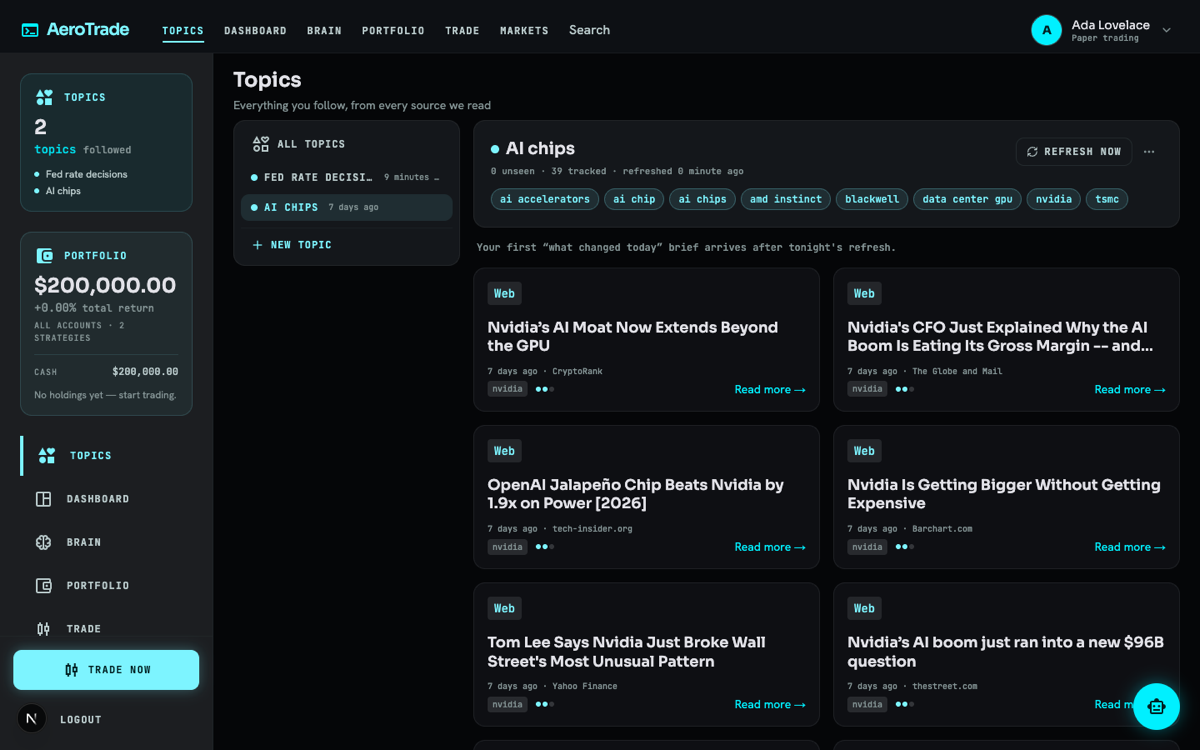
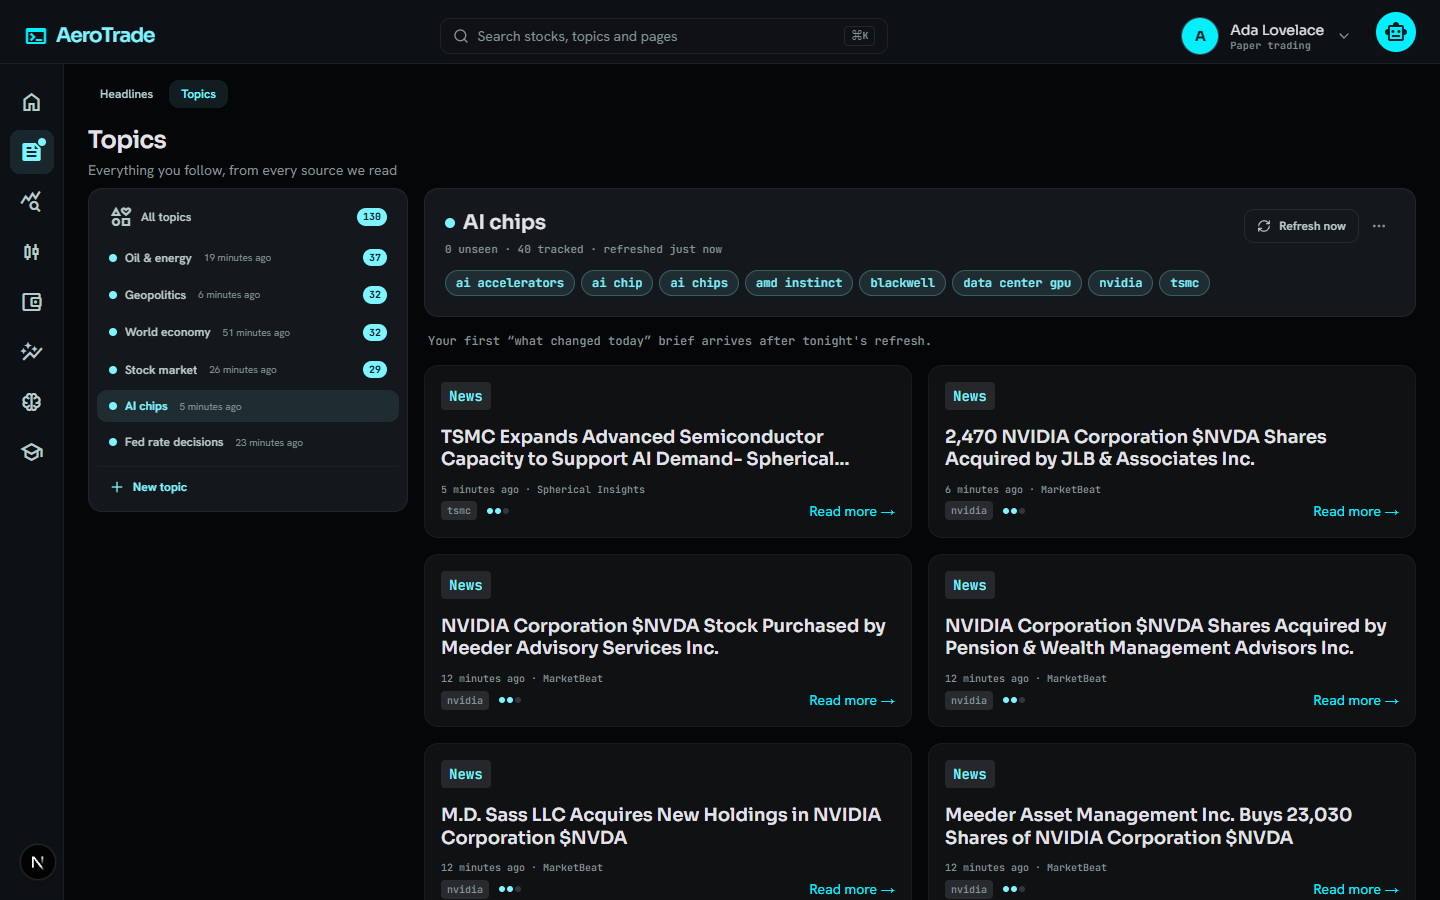
chore(polish): a title per page, a settings nav that sticks, and docs for the revamp
Every browser tab read "AeroTrade Terminal". Each page now names itself and
the root layout appends the app ("Portfolio · AeroTrade"); a strategy page
takes the strategy's name from the catalog, a lesson its own title, a stock
page its symbol. The landing page keeps its full title as an absolute one.

The settings side nav sat 96px below the panel beside it: `lg:sticky
lg:top-24` was written on the Panel, .glass-panel sets position itself, so
the `sticky` lost and the `top` pushed a relatively positioned nav down the
page. A wrapper carries the sticky now, and it sticks.

Docs: docs/specs/2026-10-02-ux-revamp.md records what was decided, what
shipped and what was deliberately left out; the README's counts, route list
and feature tour are current, and its screenshots are recaptured from the new
UI (screenshots.mjs writes them at the size the README shows, so the macOS
`sips` step is gone).

Verified: npm run check (1817 tests), build:check, npm run qa (756 PASS).

diff --git a/app/(root)/settings/page.tsx b/app/(root)/settings/page.tsx
@@ -1,3 +1,4 @@
+import type {Metadata} from "next";
 import Link from "next/link";
 import {redirect} from "next/navigation";
 import {getSessionUser} from "@/lib/auth/session";
@@ -17,6 +18,9 @@ import {getVisibleLayout} from "@/lib/dashboard/availability";
 import Panel from "@/components/primitives/Panel";
 import {cn} from "@/lib/utils";
 import type {User} from "@/lib/auth/types";
+
+// The browser tab's title; app/layout.tsx appends the app's name.
+export const metadata: Metadata = {title: "Settings"};
 
 const SECTIONS = [
     {id: 'topics', label: 'Topics', icon: 'interests'},
@@ -71,7 +75,10 @@ const SettingsPage = async ({searchParams}: SettingsPageProps) => {
             <PageTitle title="Settings" subtitle="Topics, your news feed, appearance, dashboard layout, notifications and your account" />
 
             <div className="grid grid-cols-1 lg:grid-cols-12 gap-4 items-start">
-                <Panel as="nav" pad={2} className="lg:col-span-3 lg:sticky lg:top-24" aria-label="Settings sections">
+                {/* The wrapper is what sticks: .glass-panel sets position itself, so `sticky` on the Panel
+                    lost to it and its `top` pushed the nav 96px down the page instead. */}
+                <div className="lg:col-span-3 lg:sticky lg:top-24">
+                <Panel as="nav" pad={2} aria-label="Settings sections">
                     {SECTIONS.map((s) => (
                         <Link key={s.id} href={hrefOf(s.id)} replace scroll={false}
                               aria-current={s.id === active ? 'page' : undefined}
@@ -85,6 +92,7 @@ const SettingsPage = async ({searchParams}: SettingsPageProps) => {
                         </Link>
                     ))}
                 </Panel>
+                </div>
 
                 <div className="lg:col-span-9">
                     <Panel id={section.id} className="scroll-mt-24">

diff --git a/app/(root)/strategies/[slug]/page.tsx b/app/(root)/strategies/[slug]/page.tsx
@@ -1,3 +1,5 @@
+import type {Metadata} from "next";
+import {strategyBySlug as strategyForTitle} from "@/lib/strategies/catalog";
 import Link from "next/link";
 import {notFound} from "next/navigation";
 import {requireUserId} from "@/lib/auth/session";
@@ -25,6 +27,10 @@ import BoardReading from "@/components/strategies/BoardReading";
 import TimeInMarket from "@/components/strategies/TimeInMarket";
 import WhatIfLab from "@/components/strategies/WhatIfLab";
 import type {PaperTradeRecord} from '@/lib/trading/types';
+
+// The browser tab's title: the strategy's name, from the catalog.
+export const generateMetadata = async ({params}: {params: Promise<{slug: string}>}): Promise<Metadata> =>
+    ({title: strategyForTitle((await params).slug)?.name ?? 'Strategies'});
 
 type StrategyPageProps = {
     params: Promise<{slug: string}>;

diff --git a/app/(root)/brain/page.tsx b/app/(root)/brain/page.tsx
@@ -1,3 +1,4 @@
+import type {Metadata} from "next";
 import {requireUserId} from "@/lib/auth/session";
 import {getActiveTheses, getBrainGraph, getBrainSystemStatus, getEntityEvidence, getSinceThesis, getTopEntities} from "@/lib/brain/store";
 import {glossNavigatorReasons} from "@/lib/learn/reasons";
@@ -21,6 +22,9 @@ import PageTitle from "@/components/primitives/PageTitle";
 import SectionHeading from "@/components/primitives/SectionHeading";
 import Tabs from "@/components/primitives/Tabs";
 import {BRAIN_COPY} from "@/lib/learn/copy/brain";
+
+// The browser tab's title; app/layout.tsx appends the app's name.
+export const metadata: Metadata = {title: "News Brain"};
 
 // Each decision's reasons decoded here, on the server, so the client panel renders clauses
 // without bundling the grammar.

diff --git a/app/(root)/topics/page.tsx b/app/(root)/topics/page.tsx
@@ -1,3 +1,4 @@
+import type {Metadata} from "next";
 import {requireUserId} from "@/lib/auth/session";
 import {getTopicsPageView, MERGED_FEED_SIZE} from "@/lib/topics/page-store";
 import TopicsShell from "@/components/topics/TopicsShell";
@@ -5,6 +6,9 @@ import AllTopicsHeader from "@/components/topics/AllTopicsHeader";
 import TopicFeed from "@/components/topics/TopicFeed";
 import TopicFeedEmpty from "@/components/topics/TopicFeedEmpty";
 import TopicsEmptyState from "@/components/topics/TopicsEmptyState";
+
+// The browser tab's title; app/layout.tsx appends the app's name.
+export const metadata: Metadata = {title: "Topics"};
 
 // The seed safety net, the first-run fetch and the brain's suggestions live in
 // getTopicsPageView (lib/topics/page-store.ts); the page only composes its view.

diff --git a/app/(root)/watchlist/page.tsx b/app/(root)/watchlist/page.tsx
@@ -1,3 +1,4 @@
+import type {Metadata} from "next";
 import type {ReactNode} from "react";
 import {requireUserId} from "@/lib/auth/session";
 import {getWatchlistPageView} from "@/lib/stocks/watchlist-page-store";
@@ -7,6 +8,9 @@ import MarketStatus from "@/components/stocks/MarketStatus";
 import Panel from "@/components/primitives/Panel";
 import PageTitle from "@/components/primitives/PageTitle";
 import {WATCHLIST_COPY} from "@/lib/learn/copy/watchlist";
+
+// The browser tab's title; app/layout.tsx appends the app's name.
+export const metadata: Metadata = {title: "Watchlist"};
 
 // The same PageTitle as watchlist/loading.tsx, so the title does not reflow when the skeleton
 // is replaced. mb-6: Tailwind v4's space-y is a margin-bottom on each child, which PageTitle's

diff --git a/app/(root)/history/page.tsx b/app/(root)/history/page.tsx
@@ -1,3 +1,4 @@
+import type {Metadata} from "next";
 import Link from "next/link";
 import {requireUserId} from "@/lib/auth/session";
 import {getWatchlistForUser} from "@/lib/stocks/watchlist-store";
@@ -8,6 +9,9 @@ import {formatEasternTimestamp} from "@/lib/format";
 import PageTitle from "@/components/primitives/PageTitle";
 import Panel from '@/components/primitives/Panel';
 import SectionHeading from "@/components/primitives/SectionHeading";
+
+// The browser tab's title; app/layout.tsx appends the app's name.
+export const metadata: Metadata = {title: "Activity"};
 
 // Portfolio's Activity tab: what you did, across every account — the fills, and what you put on
 // your watchlist and when. It used to end on six cards of the news feed, which has a page of

diff --git a/app/(root)/strategies/page.tsx b/app/(root)/strategies/page.tsx
@@ -1,3 +1,4 @@
+import type {Metadata} from "next";
 import {requireUserId} from "@/lib/auth/session";
 import {marketStatus} from "@/lib/prices/market-hours";
 import {getStrategiesSystemStatus, getStrategyLeaderboard} from "@/lib/strategies/page-store";
@@ -10,6 +11,9 @@ import HowToRead from "@/components/strategies/HowToRead";
 import StrategyLeaderboard from "@/components/strategies/StrategyLeaderboard";
 import StrategyStatusStrip from "@/components/strategies/StrategyStatusStrip";
 import {STRATEGIES_PAGE_COPY} from "@/lib/learn/copy/strategies";
+
+// The browser tab's title; app/layout.tsx appends the app's name.
+export const metadata: Metadata = {title: "Strategies"};
 
 const StrategiesPage = async () => {
     const userId = await requireUserId();

diff --git a/app/(root)/stocks/[symbol]/page.tsx b/app/(root)/stocks/[symbol]/page.tsx
@@ -1,3 +1,4 @@
+import type {Metadata} from "next";
 import {notFound} from "next/navigation";
 import TradingViewWidget from "@/components/stocks/TradingViewWidget";
 import StockHeader from "@/components/stocks/StockHeader";
@@ -21,6 +22,10 @@ import {strategiesWatching} from "@/lib/strategies/universe";
 import {cn} from "@/lib/utils";
 import Panel from "@/components/primitives/Panel";
 import Tabs from "@/components/primitives/Tabs";
+
+// The browser tab's title: the symbol, as typed in the address.
+export const generateMetadata = async ({params}: {params: Promise<{symbol: string}>}): Promise<Metadata> =>
+    ({title: decodeURIComponent((await params).symbol).toUpperCase()});
 
 type StockDetailsPageProps = {
     params: Promise<{

diff --git a/app/(root)/learn/course/[lesson]/page.tsx b/app/(root)/learn/course/[lesson]/page.tsx
@@ -1,3 +1,4 @@
+import type {Metadata} from "next";
 import Link from "next/link";
 import {notFound} from "next/navigation";
 import {requireUserId} from "@/lib/auth/session";
@@ -12,6 +13,10 @@ import PageTitle from "@/components/primitives/PageTitle";
 import Panel from "@/components/primitives/Panel";
 import SectionHeading from "@/components/primitives/SectionHeading";
 import {actionButton} from "@/components/primitives/ActionButton";
+
+// The browser tab's title: the lesson's.
+export const generateMetadata = async ({params}: {params: Promise<{lesson: string}>}): Promise<Metadata> =>
+    ({title: lessonById((await params).lesson)?.title ?? 'Learn'});
 
 type LessonPageProps = {params: Promise<{lesson: string}>};
 

diff --git a/app/(root)/friends/page.tsx b/app/(root)/friends/page.tsx
@@ -1,3 +1,4 @@
+import type {Metadata} from "next";
 import {requireUserId} from "@/lib/auth/session";
 import {getFriends, getIncomingRequests, getLeaderboard, getOutgoingRequests} from "@/lib/friends/store";
 import AddFriend from "@/components/friends/AddFriend";
@@ -6,6 +7,9 @@ import SentRequests from "@/components/friends/SentRequests";
 import FriendsList from "@/components/friends/FriendsList";
 import Leaderboard from "@/components/friends/Leaderboard";
 import PageTitle from "@/components/primitives/PageTitle";
+
+// The browser tab's title; app/layout.tsx appends the app's name.
+export const metadata: Metadata = {title: "Friends"};
 
 const FriendsPage = async () => {
     const userId = await requireUserId();

diff --git a/app/(root)/dashboard/page.tsx b/app/(root)/dashboard/page.tsx
@@ -1,3 +1,4 @@
+import type {Metadata} from "next";
 import {cookies} from "next/headers";
 import type {ReactNode} from "react";
 import {requireUserId} from "@/lib/auth/session";
@@ -10,6 +11,9 @@ import {pickActiveAccount, preferredAccountId, toSwitcherAccounts} from "@/lib/t
 import {renderWidgetBody} from "@/components/dashboard/widgets/registry";
 import DashboardGrid from "@/components/dashboard/DashboardGrid";
 import AccountSwitcher from "@/components/trading/accounts/AccountSwitcher";
+
+// The browser tab's title; app/layout.tsx appends the app's name.
+export const metadata: Metadata = {title: "Dashboard"};
 
 type DashboardProps = {
     searchParams: Promise<{customize?: string; account?: string}>;

diff --git a/app/(root)/learn/page.tsx b/app/(root)/learn/page.tsx
@@ -1,3 +1,4 @@
+import type {Metadata} from "next";
 import {Suspense} from "react";
 import Link from "next/link";
 import {requireUserId} from "@/lib/auth/session";
@@ -28,6 +29,9 @@ import Tabs from "@/components/primitives/Tabs";
 import {actionButton} from "@/components/primitives/ActionButton";
 import {rowCard} from "@/components/primitives/RowCard";
 import {cn} from "@/lib/utils";
+
+// The browser tab's title; app/layout.tsx appends the app's name.
+export const metadata: Metadata = {title: "Learn"};
 
 // Everything the app teaches, in one place: the beginner course, today's lesson and question,
 // the glossary every label on every page quotes, and the strategies in a line each. One view at
